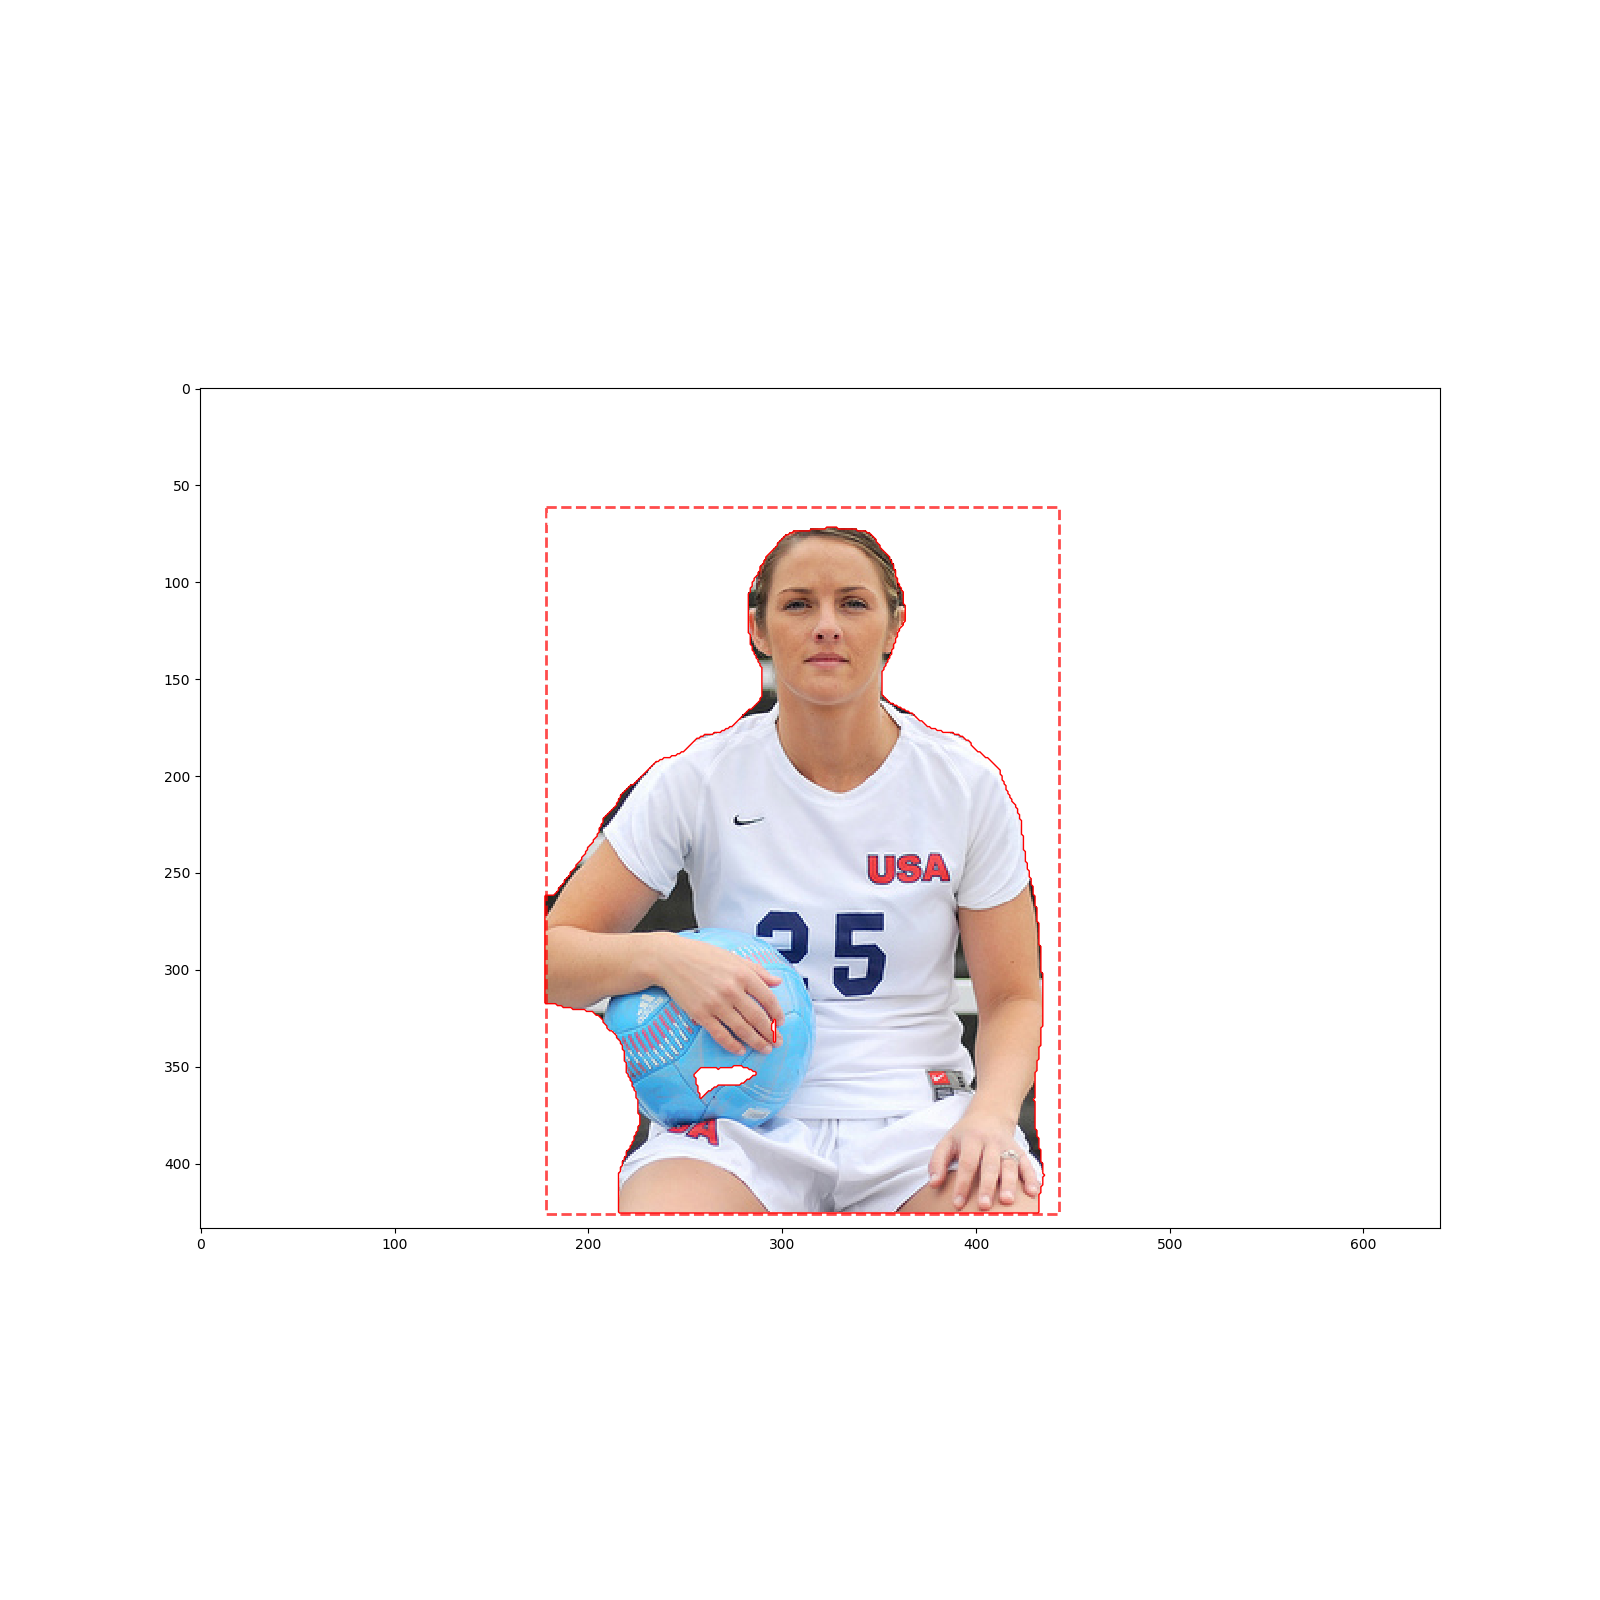
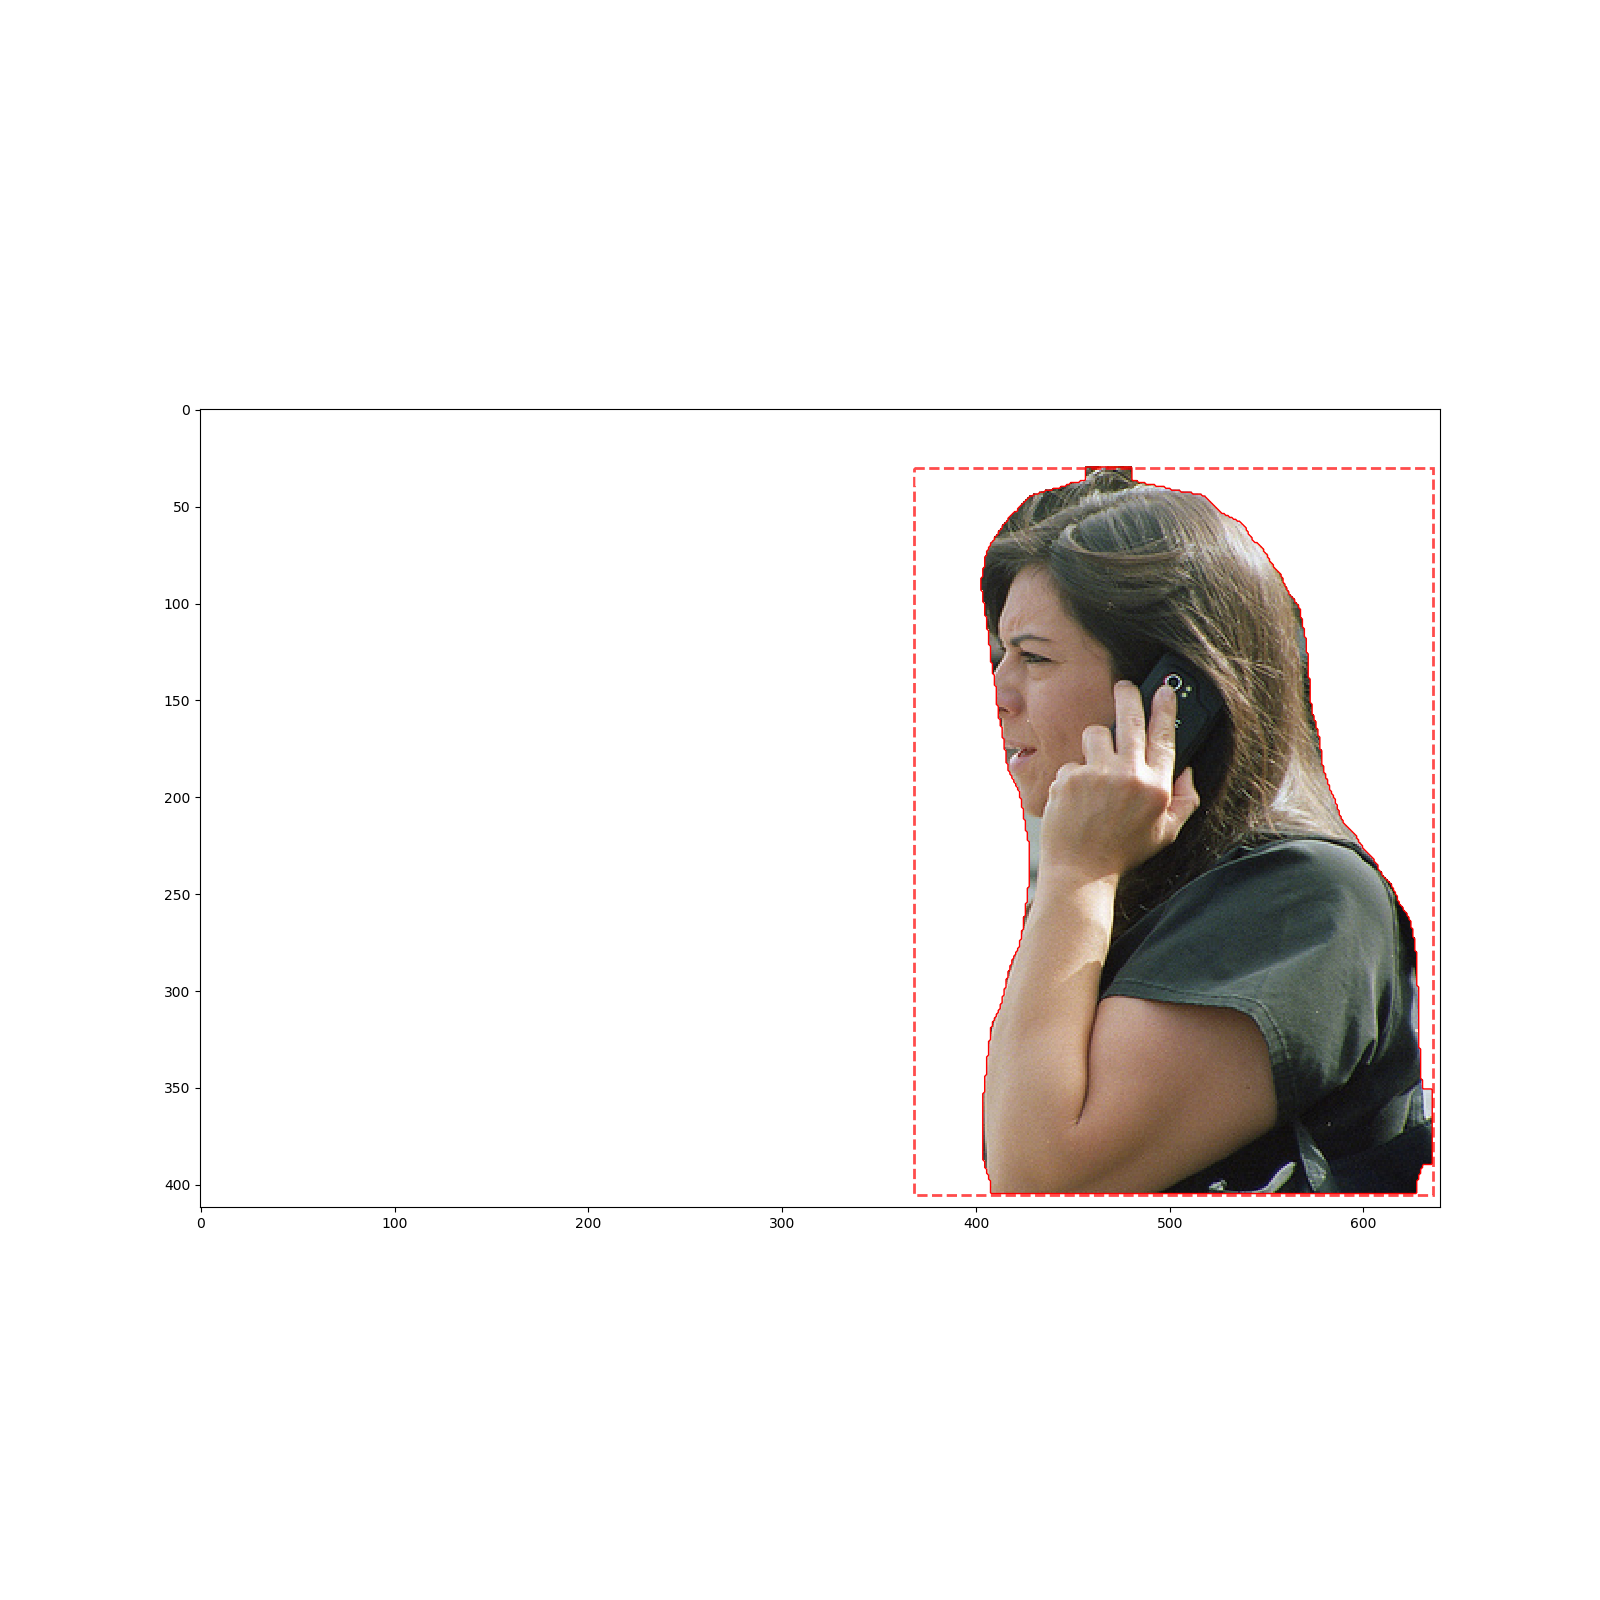
modified:   dbexpos_image.png 	modified:   demo.py 	modified:   mask.png 	modified:   plot.png

diff --git a/demo.py b/demo.py
@@ -65,8 +65,8 @@ class_names = ['BG', 'person', 'bicycle', 'car', 'motorcycle', 'airplane',
 
 # Load a random image from the images folder
 file_names = next(os.walk(IMAGE_DIR))[2]
-image = skimage.io.imread(os.path.join(IMAGE_DIR, 'IMG_0037.JPG'))
-background_image = skimage.io.imread(os.path.join(IMAGE_DIR,'IMG_0056.JPG'))/255
+image = skimage.io.imread(os.path.join(IMAGE_DIR, 'IMG_0038.JPG'))
+background_image = skimage.io.imread(os.path.join(IMAGE_DIR,'IMG_0057.JPG'))/255
 # Run detection
 results = model.detect([image], verbose=1)
 
